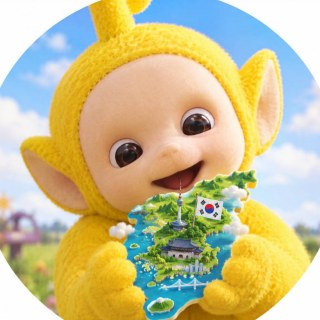
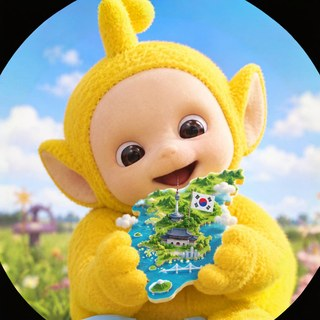
Centre Mascot's portrait and reframe Kalya's PFP
At the owner's request on 2026-11-12, Mascot's portrait is recropped so the
face sits in the middle of the coin and shows 15% larger.

Kalya's PFP looked cut off, so it is shown 15% smaller. Its original is a
round image, so the ring outside it (the tip of the antenna, sky and meadow)
was generated with a locally run image model; the supplied pixels inside
the circle are unchanged. Both source records describe the edits.

diff --git a/README.md b/README.md
@@ -47,7 +47,7 @@ The lines and checks draw once, when 30% of the graphic is on screen; with reduc
 
 ## Team
 
-Each team coin shows a portrait in grayscale and flips to that member's colored PFP. Kang's front is the existing illustration. The owner supplied the Kalya photo and all three PFPs on 2026-11-11 and the current Mascot photo on 2026-11-12. That photo was a close-up cropped at the right edge of the head, so the frame around it (the right edge of the head, the background and the shoulders) was generated with a locally run image model to match the scale of the other portraits; the supplied pixels are unchanged. Kang's PFP was recut the same day on a clear ground and scaled to sit whole inside the coin. `docs/team-image-sources.json` records the source, edit and checksum of each file added since 2026-11-11; Kang's illustration predates it. `checks/team.test.mjs` checks that every member's files exist, the recorded checksums and the rendered coins. To replace an image, put a square crop in `public/assets/team/`, point the member's `image` or `pfp` in `public/refresh-team.js` at it and update its record.
+Each team coin shows a portrait in grayscale and flips to that member's colored PFP. Kang's front is the existing illustration. The owner supplied the Kalya photo and all three PFPs on 2026-11-11 and the current Mascot photo on 2026-11-12. That photo was a close-up cropped at the right edge of the head, so the frame around it (the right edge of the head, the background and the shoulders) was generated with a locally run image model to match the scale of the other portraits; the supplied pixels are unchanged. Kang's PFP was recut the same day on a clear ground and scaled to sit whole inside the coin. Later that day Mascot's portrait was recropped to centre the face and show it 15% larger, and Kalya's PFP was reframed 15% smaller, with the ring outside its round original generated by the same local image model. `docs/team-image-sources.json` records the source, edit and checksum of each file added since 2026-11-11; Kang's illustration predates it. `checks/team.test.mjs` checks that every member's files exist, the recorded checksums and the rendered coins. To replace an image, put a square crop in `public/assets/team/`, point the member's `image` or `pfp` in `public/refresh-team.js` at it and update its record.
 
 ## Event sample
 
